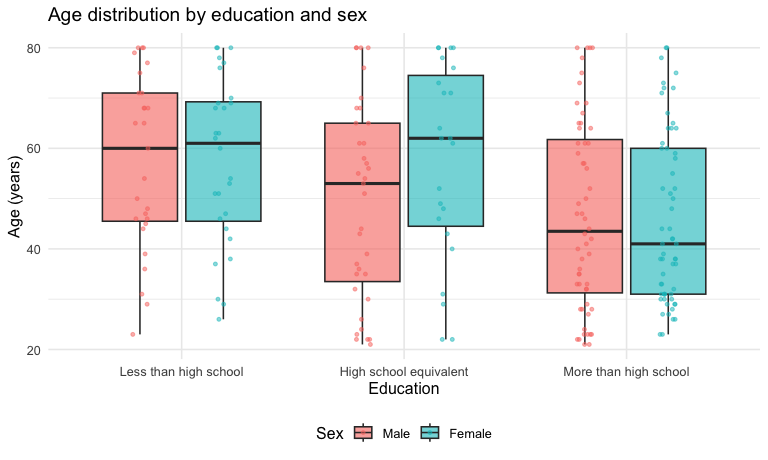
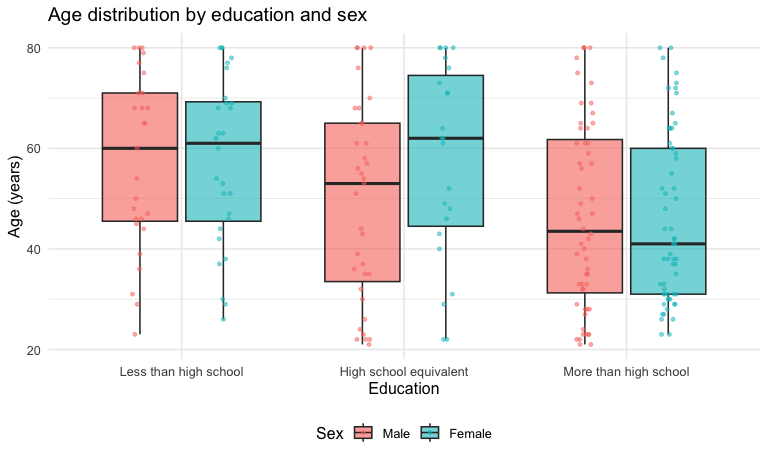
Problem 3: clean Citi Bike data, summarize rides and durations

diff --git a/p8105_hw3_zz3593.md b/p8105_hw3_zz3593.md
@@ -328,3 +328,162 @@ groups, while men and women are similar during the day in the less than
 high school group (where men are slightly more active late at night).
 Differences across education levels are small overall compared with the
 variation within each group.
+
+# Problem 3
+
+``` r
+citi_files = list.files("data/citibike", pattern = "\\.csv\\.zip$", full.names = TRUE)
+
+# Month and year come from the file names, e.g. "Jan 2020 Citi.csv.zip"
+citi_df =
+  map(citi_files, read_csv) |>
+  set_names(basename(citi_files)) |>
+  list_rbind(names_to = "file") |>
+  separate(file, into = c("month", "year"), sep = " ", extra = "drop", convert = TRUE) |>
+  rename(weekday = weekdays, duration_min = duration, rider_type = member_casual) |>
+  mutate(
+    month = factor(month, levels = c("Jan", "July"), labels = c("January", "July")),
+    weekday = factor(
+      weekday,
+      levels = c("Monday", "Tuesday", "Wednesday", "Thursday", "Friday", "Saturday", "Sunday")
+    ),
+    rideable_type = factor(
+      rideable_type,
+      levels = c("classic_bike", "electric_bike"),
+      labels = c("Classic", "Electric")
+    ),
+    rider_type = factor(rider_type, levels = c("member", "casual"), labels = c("Member", "Casual"))
+  ) |>
+  relocate(ride_id, year, month, weekday)
+```
+
+The four files (January and July of 2020 and 2024) share the same
+columns, so I read them all, stacked them, and created `year` and
+`month` variables from the file names. I renamed variables to be clearer
+(`weekday`, `duration_min`, `rider_type`) and converted `month`,
+`weekday`, `rideable_type`, and `rider_type` to factors with a sensible
+ordering (e.g. Monday to Sunday). The resulting dataset has 99,485 rides
+(one per row) and 9 variables: `ride_id`, `year`, `month`, `weekday`,
+`rideable_type`, `duration_min`, `start_station_name`,
+`end_station_name`, `rider_type`. Ride durations are in minutes and
+range from 1 to 238.8 minutes, with a median of 9.8. The only missing
+values are 43 missing start stations and 207 missing end stations; these
+rides are kept, since their other information is still valid.
+
+``` r
+citi_df |>
+  count(year, month, rider_type) |>
+  pivot_wider(names_from = rider_type, values_from = n) |>
+  mutate(
+    year = as.character(year),
+    Total = Member + Casual,
+    pct_casual = scales::percent(Casual / Total, accuracy = .1)
+  ) |>
+  knitr::kable(
+    col.names = c("Year", "Month", "Member", "Casual", "Total", "% casual"),
+    format.args = list(big.mark = ",")
+  )
+```
+
+| Year | Month   | Member | Casual |  Total | % casual |
+|:-----|:--------|-------:|-------:|-------:|:---------|
+| 2020 | January | 11,436 |    984 | 12,420 | 7.9%     |
+| 2020 | July    | 15,411 |  5,637 | 21,048 | 26.8%    |
+| 2024 | January | 16,753 |  2,108 | 18,861 | 11.2%    |
+| 2024 | July    | 36,262 | 10,894 | 47,156 | 23.1%    |
+
+Ridership grew substantially from 2020 to 2024: the number of rides in
+this 1% sample increased by about 50% in January and more than doubled
+in July. In both years, there are many more rides in July than in
+January, reflecting the seasonal nature of cycling. Members take the
+large majority of rides in every month. Casual riders make up a much
+larger share of rides in summer (about a quarter in July) than in winter
+(about 8–11% in January), suggesting that casual use is more
+weather-dependent and possibly driven by tourists and leisure trips.
+
+``` r
+citi_df |>
+  filter(year == 2024, month == "July") |>
+  count(start_station_name, name = "n_rides") |>
+  slice_max(n_rides, n = 5) |>
+  knitr::kable(col.names = c("Starting station", "Number of rides"))
+```
+
+| Starting station         | Number of rides |
+|:-------------------------|----------------:|
+| Pier 61 at Chelsea Piers |             163 |
+| University Pl & E 14 St  |             155 |
+| W 21 St & 6 Ave          |             152 |
+| West St & Chambers St    |             150 |
+| W 31 St & 7 Ave          |             146 |
+
+The most popular starting stations in July 2024 are all in Manhattan,
+mostly along the west side and around Chelsea, Union Square, and Lower
+Manhattan, with Pier 61 at Chelsea Piers at the top.
+
+``` r
+citi_df |>
+  group_by(year, month, weekday) |>
+  summarize(median_duration = median(duration_min), .groups = "drop") |>
+  mutate(year = factor(year)) |>
+  ggplot(aes(x = weekday, y = median_duration, color = year, group = year)) +
+  geom_point(size = 2) +
+  geom_line() +
+  facet_grid(. ~ month) +
+  labs(
+    title = "Median ride duration by day of week, month, and year",
+    x = "Day of week",
+    y = "Median ride duration (minutes)",
+    color = "Year"
+  ) +
+  theme(axis.text.x = element_text(angle = 45, hjust = 1))
+```
+
+<img src="p8105_hw3_zz3593_files/figure-gfm/p3_median_duration-1.png" alt="" width="90%" />
+
+Median rides are longer in July than in January in both years, and
+longer on weekends (Saturday and Sunday) than on weekdays, consistent
+with more leisurely riding in summer and on weekends, compared with
+shorter commuting trips on weekdays. Rides in 2024 are shorter than in
+2020 for every day and month, and the difference is largest in July
+2020, when median rides were about 13–17 minutes compared with about
+9–11 minutes in July 2024. One possible explanation is that July 2020
+was during the COVID-19 pandemic, when many people rode for recreation
+rather than commuting, while the larger number of electric bikes in 2024
+also makes trips faster. The weekend effect is weakest in January 2024,
+where Sunday rides are not longer than weekday rides.
+
+``` r
+citi_df |>
+  filter(year == 2024) |>
+  ggplot(aes(x = rideable_type, y = duration_min, fill = rider_type)) +
+  geom_violin(alpha = .5, position = position_dodge(width = .8)) +
+  geom_boxplot(
+    width = .15,
+    outlier.shape = NA,
+    position = position_dodge(width = .8),
+    show.legend = FALSE
+  ) +
+  scale_y_log10() +
+  facet_grid(. ~ month) +
+  labs(
+    title = "Distribution of ride duration in 2024",
+    x = "Bike type",
+    y = "Ride duration (minutes, log scale)",
+    fill = "Rider type"
+  )
+```
+
+<img src="p8105_hw3_zz3593_files/figure-gfm/p3_duration_2024-1.png" alt="" width="90%" />
+
+Ride durations are right-skewed, so they are shown on a log scale.
+Membership status has the largest effect: casual riders take longer
+rides than members for both bike types and in both months (e.g. median
+casual rides are roughly 9–16 minutes, compared with about 7–9 minutes
+for members), and their durations are more spread out. This is
+consistent with members using bikes for regular, direct trips such as
+commuting, while casual riders ride more for leisure. Rides are somewhat
+longer in July than in January, especially for casual riders. For casual
+riders, electric bike rides are shorter than classic bike rides, likely
+because electric bikes are faster; for members, bike type makes little
+difference in January and electric rides are slightly longer in July.
